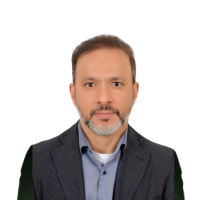
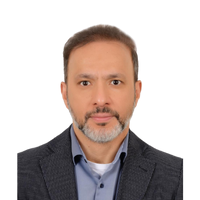
updated floor format from floor # to # floor

diff --git a/doctor-pages/dr-ahmad-alkhabaz.html b/doctor-pages/dr-ahmad-alkhabaz.html
@@ -17,7 +17,7 @@
   <div class="container">
     <div class="row g-4 align-items-center justify-content-center text-center text-md-start">
       <div class="col-md-4 text-center">
-        <img src="../assets/images/doctors-&-clinics/placeholder-doctor_m.png" alt="Dr. Ahmad Al Khabaz " class="img-fluid rounded-circle shadow" style="max-width: 250px;">
+        <img src="../assets/images/doctors-&-clinics/dr.ahmad-alkhabaz.png" alt="Dr. Ahmad Al Khabaz " class="img-fluid rounded-circle shadow" style="max-width: 250px;">
       </div>
       <div class="col-md-8">
         <h2 class="fw-bold text-green">Dr. Ahmad Al Khabaz </h2>
@@ -25,7 +25,7 @@
         <ul><li>Allergy</li><li>Asthma</li><li>Immunology for children and adults</li></ul>
         
         <ul class="list-unstyled mt-3">
-          <li><i class="bi bi-clock text-success me-2"></i> Hours: Sun–Thu: 2 PM – 6 PM | Sat: 10 AM – 2 PM</li><li><i class="bi bi-telephone text-success me-2"></i> 25332330 / 22269449 / 90094424</li><li><i class="bi bi-globe text-success me-2"></i><a href="https://www.kuwaitallergyclinic.com" target="_blank">https://www.kuwaitallergyclinic.com</a></li><li><i class="bi bi-instagram text-success me-2"></i><a href="https://instagram.com/alkhabaz" target="_blank">@alkhabaz</a></li><li><i class="bi bi-building text-success me-2"></i> Location: Floor 12th</li>
+          <li><i class="bi bi-clock text-success me-2"></i> Hours: Sun–Thu: 2 PM – 6 PM | Sat: 10 AM – 2 PM</li><li><i class="bi bi-telephone text-success me-2"></i> 25332330 / 22269449 / 90094424</li><li><i class="bi bi-globe text-success me-2"></i><a href="https://www.kuwaitallergyclinic.com" target="_blank">https://www.kuwaitallergyclinic.com</a></li><li><i class="bi bi-instagram text-success me-2"></i><a href="https://instagram.com/alkhabaz" target="_blank">@alkhabaz</a></li><li><i class="bi bi-building text-success me-2"></i> Location: 12th Floor</li>
         </ul>
       </div>
     </div>

diff --git a/assets/components/doctor-cards.html b/assets/components/doctor-cards.html
@@ -72,7 +72,7 @@
 </div>
 <div class="col aos-zoom-in" data-specialty="pediatrics" data-type="doctor">
 <a class="text-decoration-none text-reset" href="doctor-pages/dr-ahmad-alkhabaz.html"><div class="card card-glass h-100 text-center p-3 doctor-card glass-hover">
-<img alt="Dr. AHMAD AlKHABAZ" class="card-img-top rounded-circle mb-2" src="assets/images/doctors-&amp;-clinics/placeholder-doctor_m.png" style="height: 200px; width: 200px; object-fit: cover; margin: auto;"/>
+<img alt="Dr. AHMAD AlKHABAZ" class="card-img-top rounded-circle mb-2" src="assets/images/doctors-&amp;-clinics/dr.ahmad-alkhabaz.png" style="height: 200px; width: 200px; object-fit: cover; margin: auto;"/>
 <div class="card-body">
 <h6 class="fw-semibold text-green mb-0">Dr. AHMAD AlKHABAZ</h6>
 <small class="text-muted">CHILD ALLERGY CLINIC</small>
@@ -135,7 +135,7 @@
 </div> -->
 <div class="col aos-zoom-in" data-specialty="ophthalmology" data-type="doctor">
 <a class="text-decoration-none text-reset" href="doctor-pages/dr-jamal-alkandari.html"><div class="card card-glass h-100 text-center p-3 doctor-card glass-hover">
-<img alt="DR. JAMAL ALKANDARI" class="card-img-top rounded-circle mb-2" src="assets/images/doctors-&amp;-clinics/dr.jamal-kandari.png" style="height: 200px; width: 200px; object-fit: cover; margin: auto;"/>
+<img alt="DR. JAMAL ALKANDARI" class="card-img-top rounded-circle mb-2" src="assets/images/doctors-&amp;-clinics/dr.jamal-alkandari.png" style="height: 200px; width: 200px; object-fit: cover; margin: auto;"/>
 <div class="card-body">
 <h6 class="fw-semibold text-green mb-0">DR. JAMAL ALKANDARI</h6>
 <small class="text-muted">CONSULTANT OPHTHALMOLOGIST</small>

diff --git a/clinic-pages/kuwait-child-and-allergy-clinic.html b/clinic-pages/kuwait-child-and-allergy-clinic.html
@@ -25,7 +25,7 @@
         <ul><li>Allergy</li><li>Asthma</li><li>Immunology for children and adults</li></ul>
         
         <ul class="list-unstyled mt-3">
-          <li><i class="bi bi-clock text-success me-2"></i> Hours: Sun–Thu: 2 PM – 6 PM | Sat: 10 AM – 2 PM</li><li><i class="bi bi-telephone text-success me-2"></i> 25332330 / 22269449 / 90094424</li><li><i class="bi bi-globe text-success me-2"></i><a href="https://www.kuwaitallergyclinic.com" target="_blank">https://www.kuwaitallergyclinic.com</a></li><li><i class="bi bi-instagram text-success me-2"></i><a href="@alkhabaz" target="_blank">@alkhabaz</a></li><li><i class="bi bi-building text-success me-2"></i> Location: Floor 12th</li>
+          <li><i class="bi bi-clock text-success me-2"></i> Hours: Sun–Thu: 2 PM – 6 PM | Sat: 10 AM – 2 PM</li><li><i class="bi bi-telephone text-success me-2"></i> 25332330 / 22269449 / 90094424</li><li><i class="bi bi-globe text-success me-2"></i><a href="https://www.kuwaitallergyclinic.com" target="_blank">https://www.kuwaitallergyclinic.com</a></li><li><i class="bi bi-instagram text-success me-2"></i><a href="@alkhabaz" target="_blank">@alkhabaz</a></li><li><i class="bi bi-building text-success me-2"></i> Location: 12th Floor</li>
         </ul>
       </div>
     </div>

diff --git a/doctor-pages/dr-jamal-alkandari.html b/doctor-pages/dr-jamal-alkandari.html
@@ -17,7 +17,7 @@
   <div class="container">
     <div class="row g-4 align-items-center justify-content-center text-center text-md-start">
       <div class="col-md-4 text-center">
-        <img src="../assets/images/doctors-&-clinics/dr.jamal-kandari.png" alt="Dr.Jamal Alkandari" class="img-fluid rounded-circle shadow" style="max-width: 250px;">
+        <img src="../assets/images/doctors-&-clinics/dr.jamal-alkandari.png" alt="Dr.Jamal Alkandari" class="img-fluid rounded-circle shadow" style="max-width: 250px;">
       </div>
       <div class="col-md-8">
         <h2 class="fw-bold text-green">Dr.Jamal Alkandari</h2>
@@ -25,7 +25,7 @@
         
         
         <ul class="list-unstyled mt-3">
-          <li><i class="bi bi-clock text-success me-2"></i> Hours: Sun–Thu: 3 PM – 7 PM</li><li><i class="bi bi-building text-success me-2"></i> Location: Floor 7th</li>
+          <li><i class="bi bi-clock text-success me-2"></i> Hours: Sun–Thu: 3 PM – 7 PM</li><li><i class="bi bi-building text-success me-2"></i> Location: 7th Floor</li>
         </ul>
       </div>
     </div>

diff --git a/doctor-pages/dr-waleed-aldeeweli.html b/doctor-pages/dr-waleed-aldeeweli.html
@@ -25,7 +25,7 @@
         <ul><li>We provide treatment for special needs.</li><li>Laughing gas treatment session.</li><li>Full dental treatment under general anesthesia.</li></ul>
         <p><strong>Credentials:</strong> Certificate of Specialization in Pediatric Dentistry, Boston University, USA. Doctorate in Oral and Dental Public Health, Boston University, USA</p>
         <ul class="list-unstyled mt-3">
-          <li><i class="bi bi-clock text-success me-2"></i> Hours: Sat–Thu: 3:30 PM – 9 PM</li><li><i class="bi bi-telephone text-success me-2"></i> 24/7: 66669924 / 25328093</li><li><i class="bi bi-building text-success me-2"></i> Location: Floor 12th</li>
+          <li><i class="bi bi-clock text-success me-2"></i> Hours: Sat–Thu: 3:30 PM – 9 PM</li><li><i class="bi bi-telephone text-success me-2"></i> 24/7: 66669924 / 25328093</li><li><i class="bi bi-building text-success me-2"></i> Location: 12th Floor</li>
         </ul>
       </div>
     </div>

diff --git a/clinic-pages/dr-raed-behbehani-clinic.html b/clinic-pages/dr-raed-behbehani-clinic.html
@@ -25,7 +25,7 @@
         <ul><li>Neurology and Oculoplastics</li><li>Cataract Surgery</li><li>Eyelid Surgery</li><li>Botox & Fillers</li><li>Adult Strabismus</li><li>Eye Exams</li><li>Optic Nerve Tests</li></ul>
         <p><strong>Credentials:</strong> American and Canadian Board</p>
         <ul class="list-unstyled mt-3">
-          <li><i class="bi bi-clock text-success me-2"></i> Hours: Sun–Wed: 4 PM – 9 PM | Sat: 10:30 AM – 2 PM</li><li><i class="bi bi-telephone text-success me-2"></i> 69099602 / 22269350</li><li><i class="bi bi-building text-success me-2"></i> Location: Floor 16th</li>
+          <li><i class="bi bi-clock text-success me-2"></i> Hours: Sun–Wed: 4 PM – 9 PM | Sat: 10:30 AM – 2 PM</li><li><i class="bi bi-telephone text-success me-2"></i> 69099602 / 22269350</li><li><i class="bi bi-building text-success me-2"></i> Location: 16th Floor</li>
         </ul>
       </div>
     </div>

diff --git a/doctor-pages/dr-raed-behbehani.html b/doctor-pages/dr-raed-behbehani.html
@@ -25,7 +25,7 @@
         <ul><li>Neurology and Oculoplastics</li><li>Cataract Surgery</li><li>Eyelid Surgery</li><li>Botox & Fillers</li><li>Adult Strabismus</li><li>Eye Exams</li><li>Optic Nerve Tests</li></ul>
         <p><strong>Credentials:</strong> American and Canadian Board</p>
         <ul class="list-unstyled mt-3">
-          <li><i class="bi bi-clock text-success me-2"></i> Hours: Sun–Wed: 4 PM – 9 PM | Sat: 10:30 AM – 2 PM</li><li><i class="bi bi-telephone text-success me-2"></i> 69099602 / 22269350</li><li><i class="bi bi-building text-success me-2"></i> Location: Floor 16th</li>
+          <li><i class="bi bi-clock text-success me-2"></i> Hours: Sun–Wed: 4 PM – 9 PM | Sat: 10:30 AM – 2 PM</li><li><i class="bi bi-telephone text-success me-2"></i> 69099602 / 22269350</li><li><i class="bi bi-building text-success me-2"></i> Location: 16th Floor</li>
         </ul>
       </div>
     </div>

diff --git a/clinic-pages/kuwait-counseling-center.html b/clinic-pages/kuwait-counseling-center.html
@@ -25,7 +25,7 @@
         <ul><li>Psychological</li><li>Educational</li><li>Nutritional</li><li>Speech</li><li>OT</li><li>Behavior Therapy</li><li>Assessments</li><li>Trainings</li></ul>
         <p><strong>Credentials:</strong> APA Code Compliant</p>
         <ul class="list-unstyled mt-3">
-          <li><i class="bi bi-clock text-success me-2"></i> Hours: 9 AM – 9 PM</li><li><i class="bi bi-telephone text-success me-2"></i> 2535-6444 / 97210070</li><li><i class="bi bi-building text-success me-2"></i> Location: Floor 14th</li>
+          <li><i class="bi bi-clock text-success me-2"></i> Hours: 9 AM – 9 PM</li><li><i class="bi bi-telephone text-success me-2"></i> 2535-6444 / 97210070</li><li><i class="bi bi-building text-success me-2"></i> Location: 14th Floor</li>
         </ul>
       </div>
     </div>

diff --git a/clinic-pages/smile-zone.html b/clinic-pages/smile-zone.html
@@ -25,7 +25,7 @@
         
         <p><strong>Credentials:</strong> Certificate of Specialization in Pediatric Dentistry, Boston University, USA. Doctorate in Oral and Dental Public Health, Boston University, USA</p>
         <ul class="list-unstyled mt-3">
-          <li><i class="bi bi-clock text-success me-2"></i> Hours: Sat–Thu: 3:30 PM – 9 PM</li><li><i class="bi bi-telephone text-success me-2"></i> 66669924 / 25328093</li><li><i class="bi bi-building text-success me-2"></i> Location: Floor 12th</li>
+          <li><i class="bi bi-clock text-success me-2"></i> Hours: Sat–Thu: 3:30 PM – 9 PM</li><li><i class="bi bi-telephone text-success me-2"></i> 66669924 / 25328093</li><li><i class="bi bi-building text-success me-2"></i> Location: 12th Floor</li>
         </ul>
       </div>
     </div>

diff --git a/clinic-pages/dr-ali-safar-clinic.html b/clinic-pages/dr-ali-safar-clinic.html
@@ -25,7 +25,7 @@
         <ul><li>Ear Nose & Throat</li><li>Head & Neck Surgery</li><li>Facial plastic surgery</li></ul>
         
         <ul class="list-unstyled mt-3">
-          <li><i class="bi bi-clock text-success me-2"></i> Hours: Sun–Wed: 4 PM – 9 PM</li><li><i class="bi bi-telephone text-success me-2"></i> 22269322 / 97771090 / 97897498</li><li><i class="bi bi-building text-success me-2"></i> Location: Floor 17th</li>
+          <li><i class="bi bi-clock text-success me-2"></i> Hours: Sun–Wed: 4 PM – 9 PM</li><li><i class="bi bi-telephone text-success me-2"></i> 22269322 / 97771090 / 97897498</li><li><i class="bi bi-building text-success me-2"></i> Location: 17th Floor</li>
         </ul>
       </div>
     </div>

diff --git a/doctor-pages/dr-ali-safar.html b/doctor-pages/dr-ali-safar.html
@@ -25,7 +25,7 @@
         <ul><li>Ear Nose & Throat</li><li>Head & Neck Surgery</li><li>Facial plastic surgery</li></ul>
         
         <ul class="list-unstyled mt-3">
-          <li><i class="bi bi-clock text-success me-2"></i> Hours: Sun–Wed: 4 PM – 9 PM</li><li><i class="bi bi-telephone text-success me-2"></i> 22269322 / 97771090 / 97897498</li><li><i class="bi bi-building text-success me-2"></i> Location: Floor 17th</li>
+          <li><i class="bi bi-clock text-success me-2"></i> Hours: Sun–Wed: 4 PM – 9 PM</li><li><i class="bi bi-telephone text-success me-2"></i> 22269322 / 97771090 / 97897498</li><li><i class="bi bi-building text-success me-2"></i> Location: 17th Floor</li>
         </ul>
       </div>
     </div>

diff --git a/clinic-pages/al-qattan-seniors-clinic.html b/clinic-pages/al-qattan-seniors-clinic.html
@@ -25,7 +25,7 @@
         <ul><li>senior citizen services</li><li>home care services</li></ul>
         
         <ul class="list-unstyled mt-3">
-          <li><i class="bi bi-clock text-success me-2"></i> Hours: Sun–Thu: 3 PM – 8 PM | Sat: 10 AM – 2 PM</li><li><i class="bi bi-telephone text-success me-2"></i> 99785613</li><li><i class="bi bi-building text-success me-2"></i> Location: Floor 13th</li>
+          <li><i class="bi bi-clock text-success me-2"></i> Hours: Sun–Thu: 3 PM – 8 PM | Sat: 10 AM – 2 PM</li><li><i class="bi bi-telephone text-success me-2"></i> 99785613</li><li><i class="bi bi-building text-success me-2"></i> Location: 13th Floor</li>
         </ul>
       </div>
     </div>
